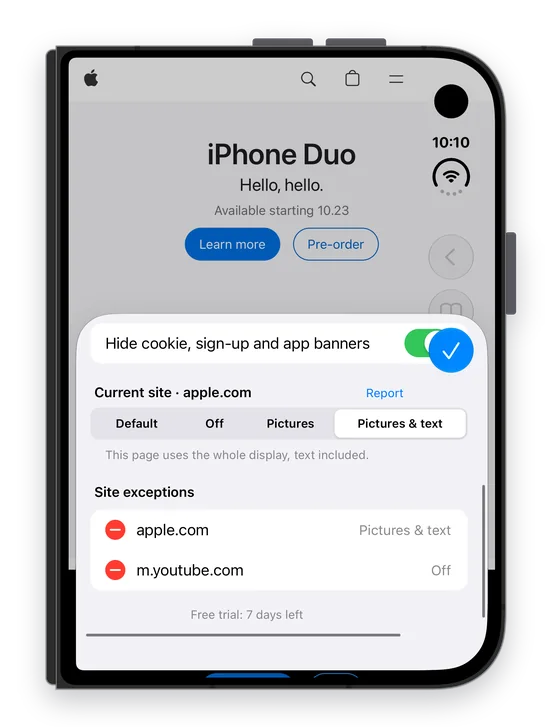
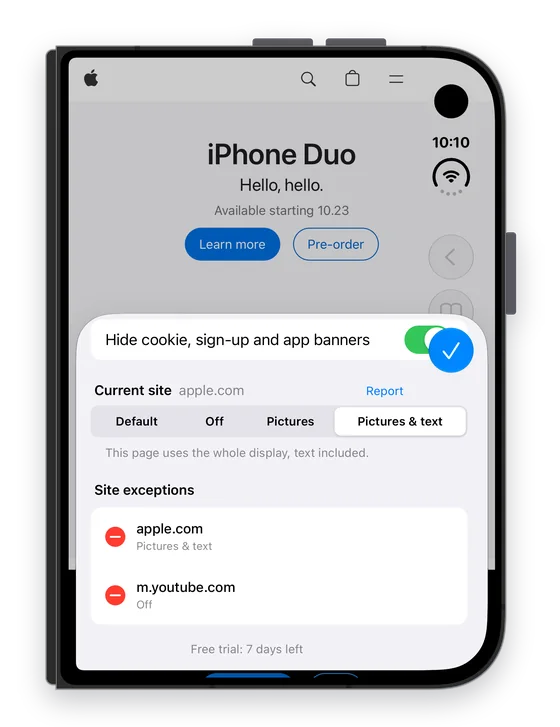
Settings screenshot retaken on build 42

diff --git a/index.html b/index.html
@@ -132,7 +132,7 @@
     <span class="kicker">The settings</span>
     <h2>Everything in one panel, right in Safari</h2>
     <p class="intro">Choose <strong>Widen</strong> from Safari&rsquo;s page menu and every option is there, on the page you&rsquo;re looking at. No digging through the Settings app.</p>
-    <figure class="panel-one"><img src="img/panel.webp?v=4" width="560" height="727" loading="lazy" alt="Widen's panel in Safari on apple.com: banner hiding on, the current site set to Pictures &amp; text, and two site exceptions, apple.com and m.youtube.com"><figcaption>Banner hiding, this site&rsquo;s own setting, a Report button, and every exception you&rsquo;ve made, all in one place.</figcaption></figure>
+    <figure class="panel-one"><img src="img/panel.webp?v=5" width="560" height="727" loading="lazy" alt="Widen's panel in Safari on apple.com: banner hiding on, the current site set to Pictures &amp; text, and two site exceptions, apple.com and m.youtube.com"><figcaption>Banner hiding, this site&rsquo;s own setting, a Report button, and every exception you&rsquo;ve made, all in one place.</figcaption></figure>
   </div>
 </section>
 
